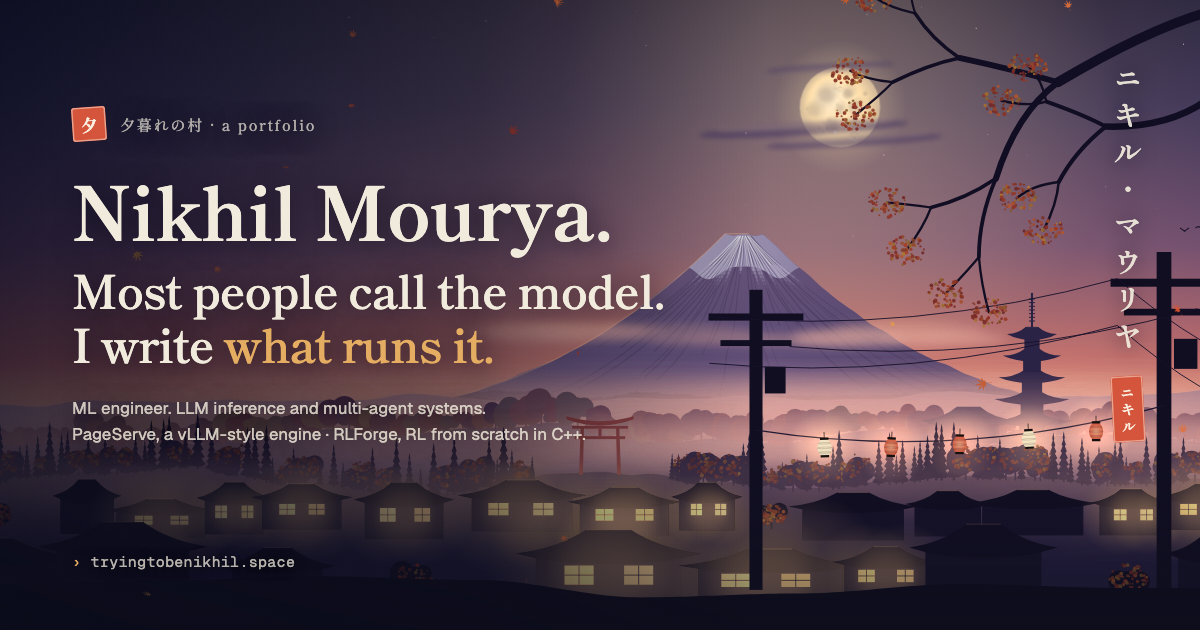
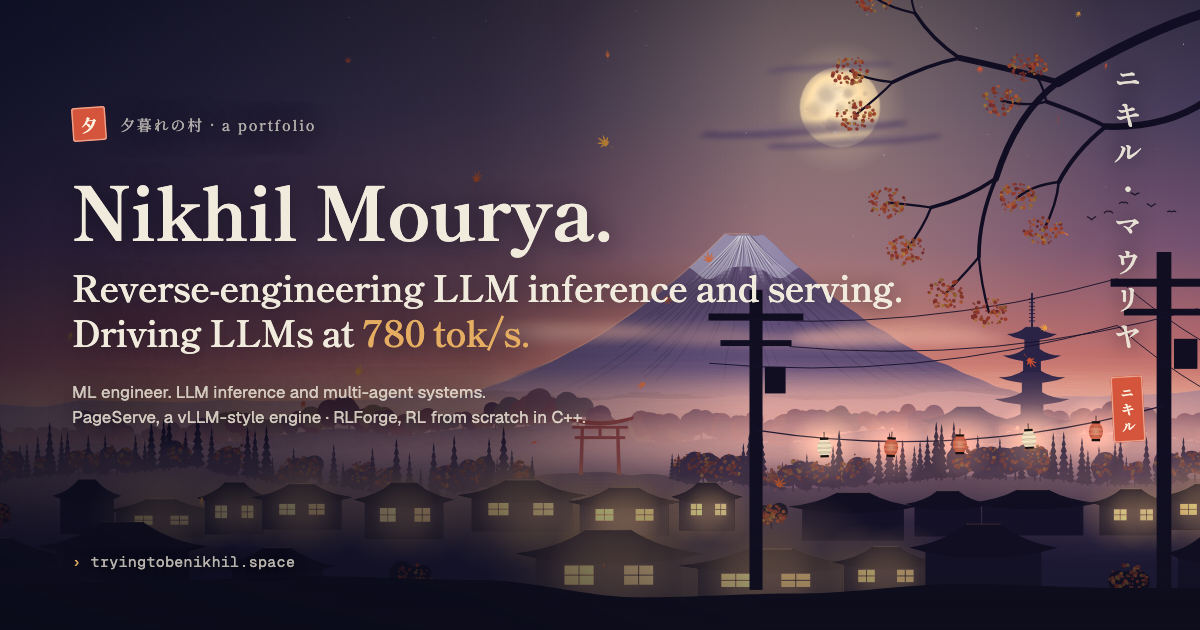
Hero headline: reverse-engineering LLM inference, 780 tok/s
The hero reads "Nikhil Mourya. / Reverse-engineering LLM inference and
serving. / Driving LLMs at 780 tok/s.", the name large and the two lines
a step smaller. Those lines leave the Recrivio entry (now just Growth).
The share card, page description, share text and the Lab demos follow.

Changed region(s): [[0.0617, 0.4222, 0.74, 0.7238], [0.4933, 0.2111, 0.5242, 0.2413]]

diff --git a/index.html b/index.html
@@ -4,21 +4,21 @@
   <meta charset="UTF-8">
   <meta name="viewport" content="width=device-width, initial-scale=1">
   <title>Nikhil Mourya · ML Engineer · LLM Inference · Multi-Agent Systems</title>
-  <meta name="description" content="Nikhil Mourya is an ML engineer who writes what runs the model: PageServe, a vLLM-style inference engine, and RLForge, a from-scratch C++ RL library with its own autograd.">
+  <meta name="description" content="Nikhil Mourya reverse-engineers LLM inference and serving: PageServe, a vLLM-style inference engine, and RLForge, a from-scratch C++ RL library with its own autograd.">
   <meta name="author" content="Nikhil Mourya">
   <meta name="theme-color" content="#0e0d0f">
   <link rel="canonical" href="https://tryingtobenikhil.space/">
 
   <meta property="og:type" content="website">
   <meta property="og:url" content="https://tryingtobenikhil.space/">
-  <meta property="og:title" content="Nikhil Mourya: Most people call the model. I write what runs it.">
+  <meta property="og:title" content="Nikhil Mourya: Reverse-engineering LLM inference and serving. Driving LLMs at 780 tok/s.">
   <meta property="og:description" content="ML engineer working on LLM inference and multi-agent systems. PageServe, a vLLM-style inference engine · RLForge, RL from scratch in C++.">
-  <meta property="og:image" content="https://tryingtobenikhil.space/assets/images/og.png?v=3">
+  <meta property="og:image" content="https://tryingtobenikhil.space/assets/images/og.png?v=4">
   <meta property="og:image:width" content="1200">
   <meta property="og:image:height" content="630">
-  <meta property="og:image:alt" content="Nikhil Mourya. Most people call the model. I write what runs it. A painted village at dusk below Mount Fuji, with a pagoda, a torii and festival lanterns.">
+  <meta property="og:image:alt" content="Nikhil Mourya. Reverse-engineering LLM inference and serving. Driving LLMs at 780 tok/s. A painted village at dusk below Mount Fuji, with a pagoda, a torii and festival lanterns.">
   <meta name="twitter:card" content="summary_large_image">
-  <meta name="twitter:image" content="https://tryingtobenikhil.space/assets/images/og.png?v=3">
+  <meta name="twitter:image" content="https://tryingtobenikhil.space/assets/images/og.png?v=4">
   <meta name="twitter:site" content="@GonnabeNikhil">
   <meta name="twitter:creator" content="@GonnabeNikhil">
 
@@ -29,7 +29,7 @@
   <link rel="preconnect" href="https://fonts.googleapis.com">
   <link rel="preconnect" href="https://fonts.gstatic.com" crossorigin>
   <link href="https://fonts.googleapis.com/css2?family=Geist:wght@300..600&family=Geist+Mono:wght@400;500&family=Shippori+Mincho:wght@400;500;600;700&family=Yuji+Syuku&display=swap" rel="stylesheet">
-  <link rel="stylesheet" href="./assets/css/main.css?v=61">
+  <link rel="stylesheet" href="./assets/css/main.css?v=62">
 
   <script>
     document.documentElement.classList.replace('no-js', 'js');
@@ -132,8 +132,8 @@
 
           <h1 class="hero__title">
             <span class="line" style="--i:0">Nikhil Mourya.</span>
-            <span class="line" style="--i:1">Most people call the model.</span>
-            <span class="line" style="--i:2">I write <span class="hero__key">what runs it.</span></span>
+            <span class="line hero__sub" style="--i:1">Reverse-engineering LLM inference and serving.</span>
+            <span class="line hero__sub" style="--i:2">Driving LLMs at <span class="hero__key">780&nbsp;tok/s.</span></span>
           </h1>
 
           <div class="hero__actions">
@@ -319,7 +319,6 @@
                 <h3><a href="https://recrivio.com" target="_blank" rel="noopener">Recrivio <span aria-hidden="true">↗</span></a></h3>
                 <p class="role__title">Growth</p>
               </div>
-              <p class="role__text">Reverse-engineering LLM inference and serving. Driving LLMs at <strong>780&nbsp;tok/s</strong>.</p>
             </div>
           </li>
           <li class="role" data-reveal>
@@ -736,7 +735,7 @@
               <h4>Tokenizer, the step before BPE <span class="spec__tag">type anything</span></h4>
               <p>The split GPT-2 makes before BPE, live. Your name costs more tokens than "the".</p>
             </div>
-            <label class="tokz__in"><span aria-hidden="true">›</span><input type="text" value="Most people call the model. I write what runs it." aria-label="Text to tokenize" spellcheck="false" autocomplete="off" data-tok-in></label>
+            <label class="tokz__in"><span aria-hidden="true">›</span><input type="text" value="Driving LLMs at 780 tok/s." aria-label="Text to tokenize" spellcheck="false" autocomplete="off" data-tok-in></label>
             <p class="tokz__out" data-tok-out aria-hidden="true"></p>
             <p class="tokz__stats" aria-live="polite"><span><b data-tok-n>0</b> pre-tokens</span><span><b data-tok-c>0</b> characters</span><span><b data-tok-r>0</b> characters per token</span></p>
           </div>
@@ -897,7 +896,7 @@
   <script src="./assets/data/quotes.js?v=1" defer></script>
   <script src="./assets/js/extras.js?v=23" defer></script>
   <script src="./assets/js/chapters.js?v=4" defer></script>
-  <script src="./assets/js/showcase.js?v=5" defer></script>
+  <script src="./assets/js/showcase.js?v=6" defer></script>
   <script src="./assets/js/ask.js?v=5" defer></script>
   <script src="./assets/js/publish.js?v=1" defer></script>
   <script src="./assets/js/fun.js?v=8" defer></script>

diff --git a/scripts/og.html b/scripts/og.html
@@ -14,11 +14,11 @@
     .card { position: relative; width: 1200px; height: 630px; overflow: hidden; }
     #scene { position: absolute; inset: 0; width: 100%; height: 100%; }
     .veil { position: absolute; inset: 0; background: linear-gradient(90deg, rgba(10, 11, 26, 0.72) 0%, rgba(10, 11, 26, 0.45) 40%, rgba(10, 11, 26, 0) 64%), linear-gradient(180deg, rgba(12, 14, 25, 0) 70%, rgba(12, 14, 25, 0.55) 100%); }
-    .copy { position: absolute; left: 72px; top: 92px; width: 640px; color: #f1ebdd; font-family: 'Geist', sans-serif; text-shadow: 0 2px 24px rgba(8, 9, 22, 0.6); }
+    .copy { position: absolute; left: 72px; top: 92px; width: 820px; color: #f1ebdd; font-family: 'Geist', sans-serif; text-shadow: 0 2px 24px rgba(8, 9, 22, 0.6); }
     .tag { display: flex; align-items: center; gap: 14px; font: 500 15px/1 'Shippori Mincho', serif; color: rgba(241, 235, 221, 0.7); letter-spacing: 0.12em; }
     .seal { display: inline-grid; place-items: center; width: 34px; height: 34px; border-radius: 3px; background: #d4553b; color: #fbefe0; font: 700 17px/1 'Shippori Mincho', serif; letter-spacing: 0; transform: rotate(-4deg); box-shadow: inset 0 0 0 1.5px rgba(251, 239, 224, 0.5), inset 0 0 0 3px #d4553b; text-shadow: none; }
     h1 { margin: 30px 0 0; font: 700 74px/1.04 'Shippori Mincho', serif; letter-spacing: -0.01em; }
-    h1 .line { display: block; font-size: 46px; font-weight: 600; line-height: 1.18; margin-top: 14px; }
+    h1 .line { display: block; font-size: 36px; font-weight: 600; line-height: 1.25; margin-top: 16px; white-space: nowrap; }
     h1 b { color: #e4ad62; font-weight: 600; }
     .sub { margin-top: 26px; font: 400 17px/1.5 'Geist', sans-serif; color: rgba(241, 235, 221, 0.82); }
     .url { position: absolute; left: 72px; bottom: 46px; font: 400 15px/1 'Geist Mono', monospace; color: rgba(241, 235, 221, 0.75); letter-spacing: 0.02em; text-shadow: 0 1px 12px rgba(0, 0, 0, 0.8); }
@@ -34,7 +34,7 @@
     <div class="veil"></div>
     <div class="copy">
       <p class="tag"><span class="seal">夕</span>夕暮れの村 · a portfolio</p>
-      <h1>Nikhil Mourya.<span class="line">Most people call the model.<br>I write <b>what runs it.</b></span></h1>
+      <h1>Nikhil Mourya.<span class="line">Reverse-engineering LLM inference and serving.<br>Driving LLMs at <b>780&nbsp;tok/s.</b></span></h1>
       <p class="sub">ML engineer. LLM inference and multi-agent systems.<br>PageServe, a vLLM-style engine · RLForge, RL from scratch in C++.</p>
     </div>
     <p class="url"><i>›</i> tryingtobenikhil.space</p>

diff --git a/assets/js/showcase.js b/assets/js/showcase.js
@@ -24,7 +24,7 @@
       exp: $('[data-s-exp]', root), speed: $('[data-s-speed]', root),
     };
     const SENTENCES = [
-      'Most people call the model. I write what runs it, then write about what broke along the way.',
+      'Reverse-engineering LLM inference and serving, then writing about what broke along the way.',
       'Continuous batching lets new requests join while earlier ones are still decoding.',
       'A paged KV cache stops long prompts from wasting memory on padding they never use.',
     ];

diff --git a/assets/css/main.css b/assets/css/main.css
@@ -2092,3 +2092,8 @@ html { overflow-x: clip; }
 .lab__tabs { margin-bottom: 22px; }
 .lab > [role="tabpanel"][hidden] { display: none; }
 .lab__grid, .tokz { margin-top: 0; }
+
+/* hero: the name large, the two lines under it a step smaller */
+.hero__title .hero__sub { font-size: 0.6em; line-height: 1.25; font-weight: 500; color: rgba(var(--fg-rgb), 0.9); }
+.hero__title .hero__sub:nth-child(2) { margin-top: 0.35em; }
+@media (max-width: 680px) { .hero__title .hero__sub { font-size: 0.62em; } }
